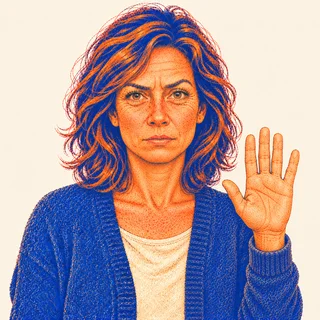
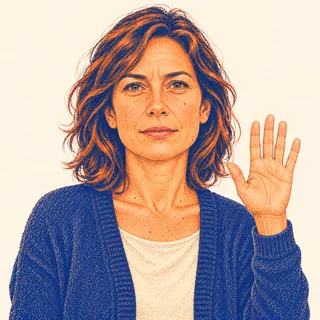
1-2-2 : 6.1, panneau de retour repensé (la formatrice à gauche, son commentaire dans une bulle, le verdict une seule fois en pastille ; indigo doux à la place de l'orange pour « Pas tout à fait… ») ; moteur : nouvelle image « paume ouverte » pour « À éviter… »

diff --git a/decouverte-client/1-2-2/css/extras.css b/decouverte-client/1-2-2/css/extras.css
@@ -1328,20 +1328,6 @@ body[data-exercise="s4-4-2"] #main .k-matrix:not(.is-review) .k-box-input:checke
 .h6-you { justify-self: end; max-width: 85%; padding: 12px 16px; border-radius: 16px 16px 4px 16px; background: var(--accent); color: #fff; font-size: 1.02rem; font-weight: 600; line-height: 1.45; }
 .h6-you span { color: rgb(255 255 255 / 75%); }
 .h6-exchange .h6-typing { margin-left: 68px; }
-/* Le retour : le verdict à gauche, l'explication à droite. */
-.h6-fb { display: grid; grid-template-columns: minmax(180px, 240px) minmax(0, 640px); gap: 0; align-items: stretch; justify-content: center; width: 100%; }
-.h6-fb .h6-stage-foot { grid-column: 1 / -1; margin-top: 16px; width: auto; }
-.h6-fb-side { display: grid; justify-items: center; align-content: center; gap: 10px; padding: 22px; border-radius: 16px 0 0 16px; background: #fff; text-align: center; }
-.h6-fb-side p { margin: 0; font-weight: 700; line-height: 1.35; }
-.h6-fb-icon { display: grid; place-items: center; width: 70px; height: 70px; border-radius: 50%; color: #fff; }
-.h6-fb.tone-ok .h6-fb-icon { background: #2a8f8f; } .h6-fb.tone-ok .h6-fb-side p, .h6-fb.tone-ok .h6-fb-title { color: #1f7272; }
-.h6-fb.tone-mid .h6-fb-icon { background: #c98a1e; } .h6-fb.tone-mid .h6-fb-side p, .h6-fb.tone-mid .h6-fb-title { color: #94610f; }
-.h6-fb.tone-ko .h6-fb-icon { background: #b0386e; } .h6-fb.tone-ko .h6-fb-side p, .h6-fb.tone-ko .h6-fb-title { color: #93285a; }
-.h6-fb-text { width: auto; border-radius: 0 16px 16px 0; display: grid; gap: 10px; align-content: center; }
-.h6-fb-text p { margin: 0; color: #24305a; line-height: 1.55; }
-.h6-fb-title { display: flex; flex-wrap: wrap; align-items: center; gap: 8px 12px; font-size: 1.15rem; font-weight: 800; }
-.h6-better { padding: 10px 14px; border-radius: 12px; background: #f1f7f3; color: #1f5a3c !important; font-weight: 600; }
-.h6-better span { display: block; margin-bottom: 2px; color: var(--muted); font-size: .72rem; font-weight: 800; letter-spacing: .06em; text-transform: uppercase; }
 .h6-next { animation-duration: .35s; }
 .h6-stage .h6-end { width: min(100%, 720px); }
 /* Relire l'échange, sans quitter la scène. */
@@ -1350,8 +1336,7 @@ body[data-exercise="s4-4-2"] #main .k-matrix:not(.is-review) .k-box-input:checke
 .h6-replay > summary::-webkit-details-marker { display: none; }
 .h6-replay[open] > .d5-thread { position: absolute; right: 0; top: calc(100% + 8px); z-index: 5; width: min(560px, 80vw); max-height: 60vh; overflow-y: auto; padding: 14px; border-radius: 16px; background: #f7f9fe; box-shadow: 0 18px 40px rgb(15 35 78 / 22%); }
 @media (max-width: 900px) {
-  .h6-choose, .h6-fb { grid-template-columns: minmax(0, 1fr); }
-  .h6-fb-side { border-radius: 16px 16px 0 0; } .h6-fb-text { border-radius: 0 0 16px 16px; }
+  .h6-choose { grid-template-columns: minmax(0, 1fr); }
   .h6-stage { min-height: 0; }
 }
 /* 6.1 : les vraies images (visages, Mme Rivière dans l'espace conseil). */
@@ -1364,8 +1349,25 @@ body[data-exercise="s4-4-2"] #main .k-matrix:not(.is-review) .k-box-input:checke
 .h6-situation.has-picture .h6-picture { width: min(100%, 420px); justify-self: center; }
 @media (max-width: 700px) { .h6-banner { grid-template-columns: minmax(0, 1fr); } }
 .h6-banner.is-text { grid-template-columns: minmax(0, 1fr); text-align: center; width: min(100%, 760px); }
-/* 6.1 : la formatrice commente le choix (moteur/assets/illustrations/retours/). */
-.h6-fb-face { width: 112px; height: 112px; border-radius: 50%; object-fit: cover; object-position: 50% 20%; background: #fbf4e6; }
-.h6-fb.tone-ok .h6-fb-face { box-shadow: 0 0 0 5px #2a8f8f; }
-.h6-fb.tone-mid .h6-fb-face { box-shadow: 0 0 0 5px #c98a1e; }
-.h6-fb.tone-ko .h6-fb-face { box-shadow: 0 0 0 5px #b0386e; }
+
+/* 6.1 · Le retour de la formatrice : elle à gauche, son commentaire dans une
+ * bulle qui pointe vers elle ; le verdict une seule fois, en pastille. */
+.h6-fb { --tone: #5a67b8; --tone-soft: #eceefb; --tone-ink: #3d4890; display: grid; gap: 16px; width: min(100%, 900px); }
+.h6-fb.tone-ok { --tone: #2a8f6a; --tone-soft: #e5f4ec; --tone-ink: #1d6a4c; }
+.h6-fb.tone-ko { --tone: #c0485b; --tone-soft: #fbe9ec; --tone-ink: #93283a; }
+.h6-fb-row { display: grid; grid-template-columns: 136px minmax(0, 1fr); gap: 26px; align-items: center; }
+.h6-fb-face { width: 136px; height: 136px; border-radius: 50%; object-fit: cover; object-position: 50% 18%; background: #fbf4e6; border: 5px solid #fff; box-shadow: 0 0 0 4px var(--tone), 0 12px 26px rgb(15 35 78 / 18%); }
+.h6-fb-bubble { position: relative; display: grid; gap: 12px; padding: 22px 26px; border-radius: 18px; background: #fff; box-shadow: 0 12px 30px rgb(15 35 78 / 14%); }
+.h6-fb-bubble::before { content: ''; position: absolute; left: -9px; top: calc(50% - 9px); width: 18px; height: 18px; background: #fff; transform: rotate(45deg); border-radius: 3px; box-shadow: -4px 4px 8px rgb(15 35 78 / 6%); }
+.h6-fb-head { display: flex; flex-wrap: wrap; align-items: center; justify-content: space-between; gap: 8px 12px; margin: 0; }
+.h6-fb-chip { padding: 5px 14px; border-radius: 999px; background: var(--tone); color: #fff; font-size: 1rem; font-weight: 800; }
+.h6-fb-points { color: var(--tone-ink); font-size: .85rem; font-weight: 700; }
+.h6-fb-say { margin: 0; color: #24305a; font-size: 1.04rem; line-height: 1.6; }
+.h6-fb-better { padding: 12px 16px; border-left: 4px solid #2a8f6a; border-radius: 4px 12px 12px 4px; background: #f3f8f5; }
+.h6-fb-better span { display: block; margin-bottom: 3px; color: #4c6a5c; font-size: .72rem; font-weight: 800; letter-spacing: .06em; text-transform: uppercase; }
+.h6-fb-better p { margin: 0; color: #1d4f39; font-weight: 600; line-height: 1.5; }
+.h6-fb .h6-stage-foot { width: auto; }
+@media (max-width: 700px) {
+  .h6-fb-row { grid-template-columns: minmax(0, 1fr); justify-items: center; }
+  .h6-fb-bubble::before { left: calc(50% - 9px); top: -9px; }
+}

diff --git a/decouverte-client/1-2-2/js/screens/s6-6-1.js b/decouverte-client/1-2-2/js/screens/s6-6-1.js
@@ -127,12 +127,16 @@
   };
   function feedbackCard(tone, text, { better = '', betterLabel = 'Il valait mieux demander', quoted = true, points = null, button }) {
     const verdict = VERDICT[tone];
+    // La formatrice à gauche ; son commentaire dans une bulle qui pointe vers
+    // elle. Le verdict n'est dit qu'une fois, dans une pastille de sa couleur.
     return `<div class="h6-fb tone-${tone}">
-        <div class="h6-fb-side h6-in"><img class="h6-fb-face" src="${esc(core.asset(`../../moteur/assets/illustrations/retours/${verdict.face}.webp`))}" alt="" aria-hidden="true"><p>${esc(verdict.label)}</p></div>
-        <div class="h6-card h6-fb-text h6-in" ${delay(0.15)}>
-          <p class="h6-fb-title">${esc(verdict.title)}${points === null ? '' : `<span class="h6-delta is-${points > 0 ? 'up' : points < 0 ? 'down' : 'same'}">${points > 0 ? '+2' : points < 0 ? '−2' : '0'} sur la jauge</span>`}</p>
-          <p>${esc(text)}</p>
-          ${better ? `<p class="h6-better"><span>${esc(betterLabel)}</span>${quoted ? q(better) : esc(better)}</p>` : ''}
+        <div class="h6-fb-row">
+          <img class="h6-fb-face h6-in" src="${esc(core.asset(`../../moteur/assets/illustrations/retours/${verdict.face}.webp`))}" alt="" aria-hidden="true">
+          <div class="h6-fb-bubble h6-in" ${delay(0.15)}>
+            <p class="h6-fb-head"><span class="h6-fb-chip">${esc(verdict.title)}</span><span class="sr-only">${esc(verdict.label)}.</span>${points === null ? '' : `<span class="h6-fb-points">${points > 0 ? '+2' : points < 0 ? '−2' : '0'} sur la jauge</span>`}</p>
+            <p class="h6-fb-say">${esc(text)}</p>
+            ${better ? `<div class="h6-fb-better"><span>${esc(betterLabel)}</span><p>${quoted ? q(better) : esc(better)}</p></div>` : ''}
+          </div>
         </div>
         <div class="h6-stage-foot">${button}</div>
       </div>`;
